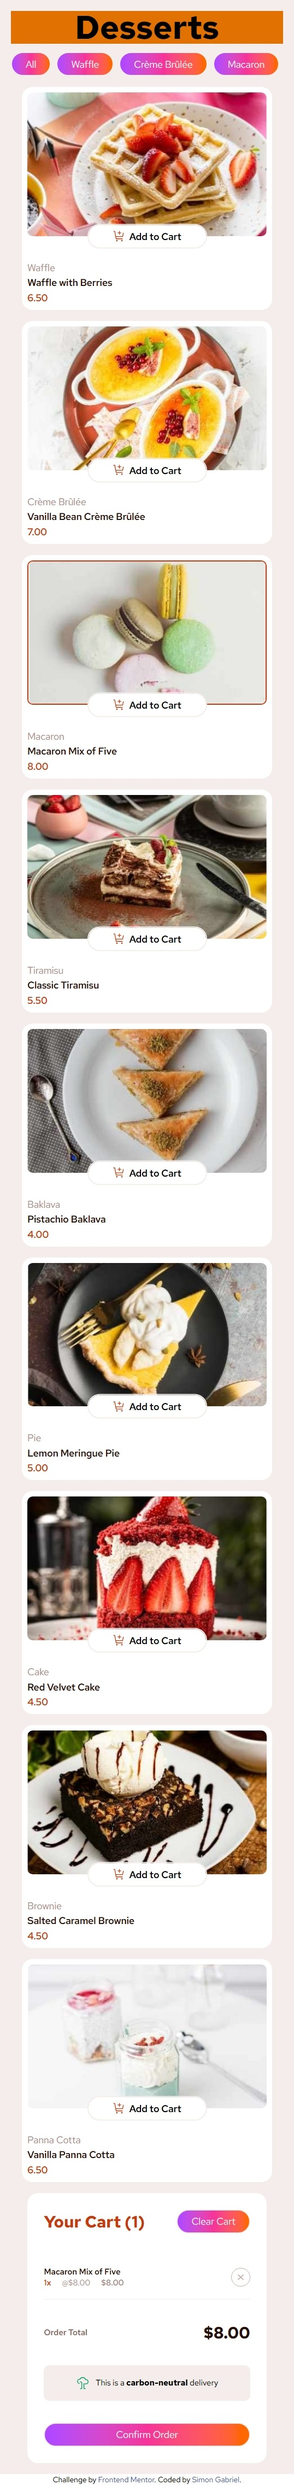
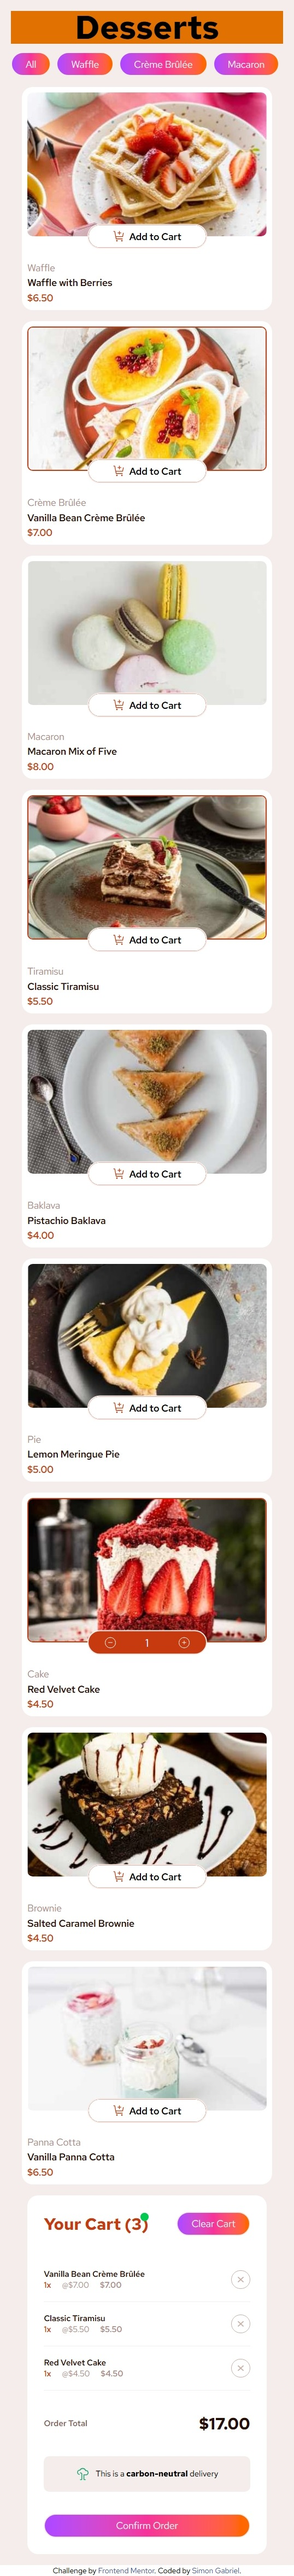
made corrections and updated screenshots

diff --git a/src/sections/Header.jsx b/src/sections/Header.jsx
@@ -25,32 +25,34 @@ const Header = () => {
   return (
     <header className="p-4 flex flex-col justify-center text-center gap-3 w-full relative">
       <h1 className="bg-amber-600 text-5xl font-black">Desserts</h1>
-      <div
-        ref={btnContainer}
-        className="flex gap-2 sm:mx-4 sm:rounded-[100px] justify-center-safe overflow-x-auto no-scrollbar"
-      >
-        <Button text={"All"} onClick={() => filterCart("all")} />
-        {data.map((item) => {
-          const { id, category } = item;
-          return (
-            <Button
-              key={id}
-              text={category}
-              onClick={() => filterCart(category)}
-            />
-          );
-        })}
+      <div className='flex justify-between items-center'>
+        <Button
+          text={"◀"}
+          btnClass="!px-1 max-[639px]:hidden"
+          onClick={scrollLeft}
+        />
+        <div
+          ref={btnContainer}
+          className="flex gap-2 py-0.5 sm:mx-4 sm:rounded-[100px] justify-center-safe overflow-x-auto no-scrollbar"
+        >
+          <Button text={"All"} onClick={() => filterCart("all")} />
+          {data.map((item) => {
+            const { id, category } = item;
+            return (
+              <Button
+                key={id}
+                text={category}
+                onClick={() => filterCart(category)}
+              />
+            );
+          })}
+        </div>
+        <Button
+          text={"▶"}
+          btnClass="!px-1 max-[639px]:hidden"
+          onClick={scrollRight}
+        />
       </div>
-      <Button
-        text={"◀"}
-        btnClass="!px-1 absolute left-0 bottom-4 max-[639px]:hidden"
-        onClick={scrollLeft}
-      />
-      <Button
-        text={"▶"}
-        btnClass="!px-1 absolute right-0 bottom-4 max-[639px]:hidden"
-        onClick={scrollRight}
-      />
     </header>
   );
 }

diff --git a/src/sections/Cart.jsx b/src/sections/Cart.jsx
@@ -31,7 +31,7 @@ const Cart = () => {
         if (notifier.current) {
           notifier.current.classList.remove("animate-ping");
         }
-      },2000);
+      },8000);
       return () => clearTimeout(timer)
     }
   },[cart.length])
@@ -39,7 +39,7 @@ const Cart = () => {
   // Show empty cart message if no items in cart
   if (cart.length === 0) {
     return (
-      <aside className="bg-white p-4 space-y-4 min-w-[320px] max-w-[385px] h-fit rounded-2xl sm:sticky sm:top-6">
+      <aside className="bg-white p-6 space-y-4 min-w-[350px] max-w-[400px] h-fit rounded-2xl sm:sticky sm:top-6">
         <h2 className="text-(--Red) text-2xl font-bold">
           Your Cart ({cart.length})
         </h2>
@@ -60,7 +60,7 @@ const Cart = () => {
   return (
     <>
       {isModalOpen && <Modal />}
-      <aside className="bg-white p-6 space-y-8 text-xs min-w-[350px] max-w-[400px] h-fit rounded-2xl">
+      <aside className="bg-white p-6 space-y-8 text-xs min-w-[350px] max-w-[400px] h-fit rounded-2xl sm:sticky sm:top-6">
         <div className="flex justify-between gap-1 items-center">
           <h2 className="text-(--Red) text-2xl font-bold text-nowrap relative">
             Your Cart ({numberOfItems}){/* Notifier for new cart items added */}
@@ -121,11 +121,7 @@ const Cart = () => {
             This is a <span className="font-bold">carbon-neutral</span> delivery
           </p>
         </div>
-        <Button
-          text={"Confirm Order"}
-          btnClass={"w-full"}
-          onClick={order}
-        />
+        <Button text={"Confirm Order"} btnClass={"w-full"} onClick={order} />
       </aside>
     </>
   );  

diff --git a/src/components/CartBtn.jsx b/src/components/CartBtn.jsx
@@ -79,6 +79,7 @@ const CartBtn = ({parentId}) => {
           className="counter-btn rounded-full p-1 flex justify-center items-center border border-white text-white hover:text-(--Red) w-4 hover:bg-white group"
           onClick={() => decrease(parentId)}
         >
+          <span className="sr-only">Decrease Button</span>
           <svg
             xmlns="http://www.w3.org/2000/svg"
             width="10"
@@ -102,6 +103,7 @@ const CartBtn = ({parentId}) => {
           className="counter-btn rounded-full p-1 flex border border-white text-white hover:text-(--Red) w-4 aspect-square hover:bg-white group"
           onClick={() => increase(parentId)}
         >
+          <span className="sr-only">Increase Button</span>
           <svg
             xmlns="http://www.w3.org/2000/svg"
             width="10"

diff --git a/src/components/Modal.jsx b/src/components/Modal.jsx
@@ -21,9 +21,13 @@ const Modal = () => {
       <div className="w-8">
         <img src="/images/icon-order-confirmed.svg" alt="" />
       </div>
-      <h3 className="text-(--Rose-900) text-2xl -mb-2.5 font-black">Order Confirmed</h3>
-      <span className="text-(--Rose-500) text-xs">We hope you enjoy your food</span>
-      <div className="bg-(--Rose-100) rounded-lg overflow-hidden px-6 py-2 my-2.5">
+      <h3 className="text-(--Rose-900) text-2xl -mb-2.5 font-black">
+        Order Confirmed
+      </h3>
+      <span className="text-(--Rose-500) text-xs">
+        We hope you enjoy your food
+      </span>
+      <div className="bg-(--Rose-100) rounded-lg overflow-hidden px-6 py-2 my-2.5 overflow-y-scroll no-scrollbar max-h-100">
         {cart.map((item) => {
           const {
             id,

diff --git a/src/components/Card.jsx b/src/components/Card.jsx
@@ -60,7 +60,7 @@ const Card = ({id,image: {mobile,tablet,desktop},name,category,price}) => {
           {category}
         </span>
         <span className="text-(--Rose-900) text-sm font-semibold">{name}</span>
-        <span className="text-(--Red) text-sm font-semibold">{price.toFixed(2)}</span>
+        <span className="text-(--Red) text-sm font-semibold">${price.toFixed(2)}</span>
       </div>
     </div>
   );

diff --git a/README.md b/README.md
@@ -25,6 +25,8 @@ Users should be able to:
 - Add items to the cart and remove them
 - Increase/decrease the number of items in the cart
 - See an order confirmation modal when they click "Confirm Order"
+- Filter items based on category
+- Clear cart on button click
 - Reset their selections when they click "Start New Order"
 - View the optimal layout for the interface depending on their device's screen size
 - See hover and focus states for all interactive elements on the page
@@ -32,7 +34,7 @@ Users should be able to:
 
 ### Screenshot
 
-![](/screenshots/mobile-screenshot.jpg)
+![](/public/screenshots/desktop-screenshot.jpeg)
 
 ### Links
 
@@ -52,27 +54,27 @@ Users should be able to:
 
 ### What I learned
 
-This project helped me cement my knowledge of the useContext and useReducer hooks in ReactJS. UseContext to share data between components whether parent and child components or siblings and useReducer to effectively manage state logic in my app.
+This project helped me cement my knowledge of the useContext and useReducer hooks in ReactJS. UseContext to share data between components, whether parent and child components or siblings, and useReducer to effectively manage state logic in my app.
 
-This is also my first project using Tailwind CSS. I like that it helps me write less css and I know the styles affecting each component.
+This is also my first project using Tailwind CSS. I like that it helps me write less CSS and I know the styles affecting each component.
 
-I also checked out the Tailwind CSS Intellisense extension, It was very helpful for my usage.
+I also checked out the Tailwind CSS Intellisense extension. It was very helpful for my usage.
 
 ```react
-  import React, {useContext} from 'react'
-  <button className"p-2 text-green-400" onClick={() => dispatch({ type: 'increment' })}>Increment</button>
+  import React, {useContext,useReducer} from 'react'
+  <button className="p-2 text-green-400" onClick={() => dispatch({ type: 'increment' })}>Increment</button>
 ```
 
 ### Continued development
 
 I want to continue learning about Cross Browser Compatibility and Accessibility for people with disabilities, and gain more knowledge on form validation. Another major thing is Performance and testing. 
 
-I also want to strengthen my knowledge of other react hooks. I will continue to use useContext hook from now on. 
+I also want to strengthen my knowledge of other React hooks. I will continue to use the useContext hook from now on. 
 
 ### Useful resources
 
 - [Tailwind CSS](https://tailwindcss.com/docs/installation/using-vite) - This helped me a lot, It is the cheatsheet itself. I really liked it and will use it going forward.
-- [Code 15 React Projects - Complete Course](https://www.youtube.com/watch?v=a_7Z7C_JCyo) - John is simply the best, he explains the concepts so well my 8 year old brother would get it. This is an amazing tutorial which helped me finally understand React. I'd recommend it to anyone still learning React.
+- [Code 15 React Projects - Complete Course](https://www.youtube.com/watch?v=a_7Z7C_JCyo) - John is simply the best, he explains the concepts so well my 8-year-old brother would get it. This is an amazing tutorial that has helped me finally understand React. I'd recommend it to anyone still learning React.
 
 ## Author
 
@@ -84,4 +86,4 @@ I also want to strengthen my knowledge of other react hooks. I will continue to 
 
 ## Acknowledgments
 
-My credit goes to God Almighty for bringing another project to completion. I also want to thank me for showing up for me from day one, couldn't have done it without me. Special shoutout to John Smilga for my ReactJS knowledge.
+My credit goes to God Almighty for bringing another project to completion. I also want to thank myself for showing up for me from day one. I couldn't have done it without me. Special shoutout to John Smilga for my ReactJS knowledge.
